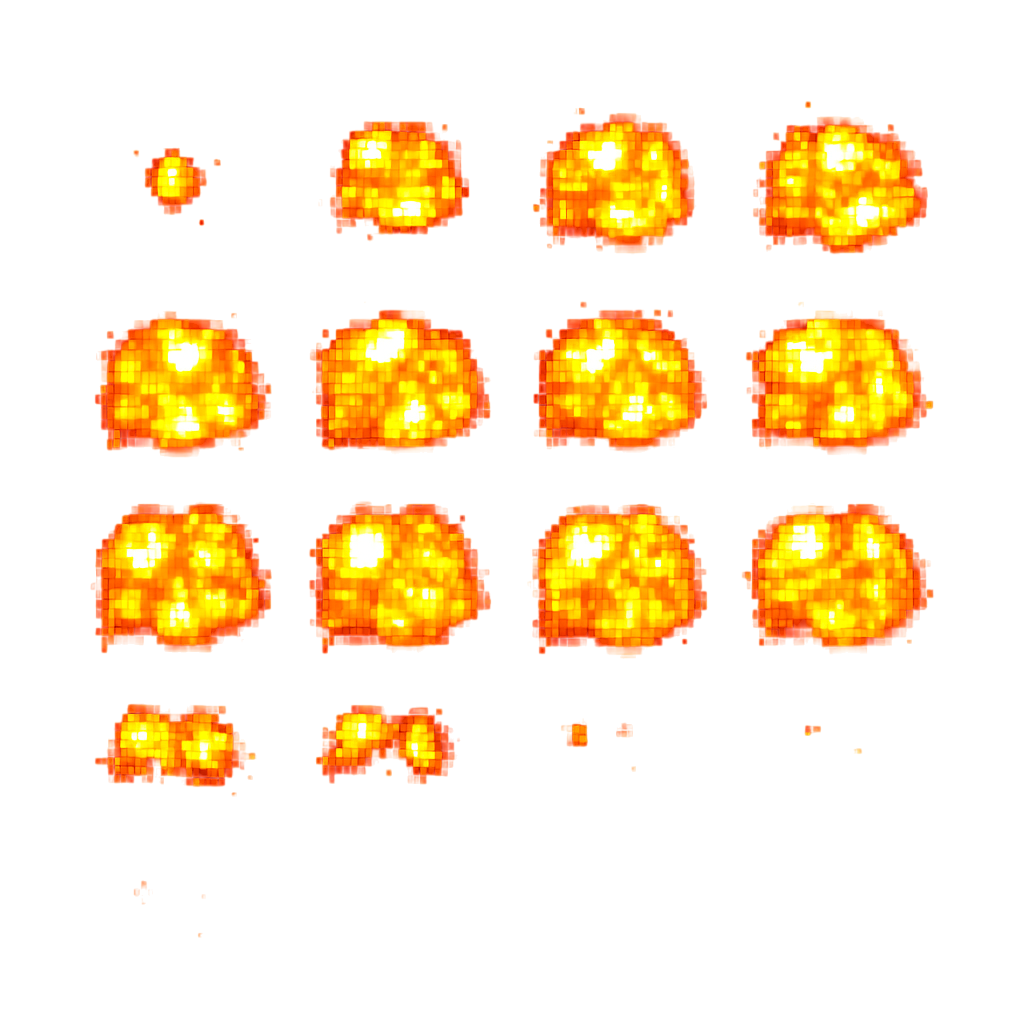
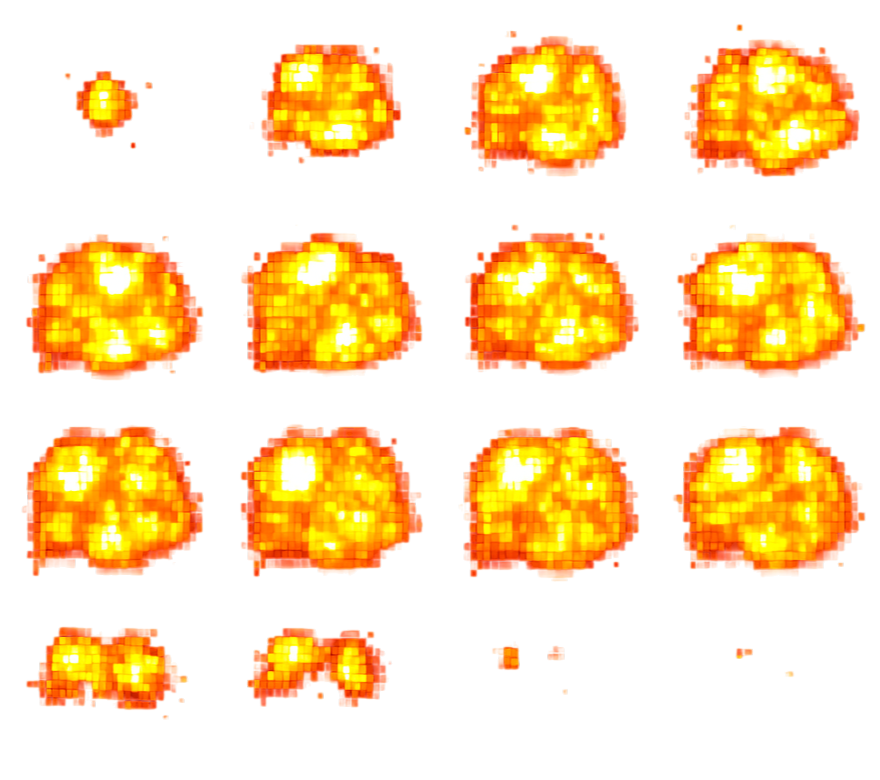
Correcao Animacoes

diff --git a/src/scenes/game.js b/src/scenes/game.js
@@ -24,18 +24,22 @@ export class Game extends Phaser.Scene {
         this.load.audio('hitSound', 'assets/impactSound01.mp3');
         this.load.audio('hitSoundEnemy', 'assets/impactSound02.mp3');
         this.load.image('enemyAttack', 'assets/simpleAttack.png');
-
-        this.load.spritesheet('explosion', 'assets/explosionEnemy.png', {
-            frameWidth: 128,
-            frameHeight: 128
-        });
         this.load.image('bossClone', 'assets/boss.spaceship.png');
         this.load.image('bossProjectile', 'assets/bullet.png');
         this.load.image('orb', 'assets/simpleAttack.png');
         this.load.image('spikeProjectile', 'assets/bullet.png');
         this.load.image('wallProjectile', 'assets/wall-projectile.png');
-
         this.load.image('flash', 'assets/flash_particle.png');
+
+        this.load.spritesheet('bossProjectile', 'assets/specialProjectile.png', {
+            frameWidth: 169,
+            frameHeight: 396 
+        });
+
+        this.load.spritesheet('explosion', 'assets/explosionEnemy.png', {
+            frameWidth: 220,
+            frameHeight: 195
+        });
     }
 
     create(data) {
@@ -85,6 +89,15 @@ export class Game extends Phaser.Scene {
             frameRate: 20,
             hideOnComplete: true
         });
+
+        
+        this.anims.create({
+             key: 'bossProjectileAnim',
+             frames: this.anims.generateFrameNumbers('bossProjectile', { start: 0, end: 7 }), // ajuste os frames!
+             frameRate: 10,
+             repeat: -1
+         });
+        
     }
 
     createEnemiesForLevel(level) {
@@ -167,8 +180,8 @@ export class Game extends Phaser.Scene {
         enemy.disableBody(true, true);
         enemy.canShoot = false;
         const explosion = this.add.sprite(enemy.x, enemy.y, 'explosion')
-            .setScale(0.6)
-            .setOrigin(0.5)
+            .setScale(0.4)
+            .setOrigin(0.5, 0.5)
             .setDepth(10);
         explosion.play('explode');
         explosion.on('animationcomplete', () => explosion.destroy());

diff --git a/src/scenes/boss.js b/src/scenes/boss.js
@@ -360,8 +360,10 @@ export default class Boss extends Phaser.Physics.Arcade.Sprite {
 
     DefaultAttack1() {
         const DefaultAttack1Object = this.scene.physics.add.sprite(this.x, this.y + 10, 'bossProjectile');
-        const velocity = this.DefaultAttack1Velocity; // salva valor local do velocity
+        DefaultAttack1Object.setOrigin(0.5, 0.5);
         DefaultAttack1Object.setScale(0.3);
+        DefaultAttack1Object.play('bossProjectileAnim')
+        const velocity = this.DefaultAttack1Velocity; // salva valor local do velocity
         DefaultAttack1Object.damage = 5;
 
         // Inicialmente parado
@@ -433,7 +435,9 @@ export default class Boss extends Phaser.Physics.Arcade.Sprite {
                 const x = Phaser.Math.Between(0, screenWidth);
                 const y = -32;
 
-                const spike = this.scene.physics.add.sprite(x, y, 'spikeProjectile');
+                const spike = this.scene.physics.add.sprite(x, y, 'bossProjectile');
+                spike.play('bossProjectileAnim');
+                
                 spike.setVelocityY(specialAttack1Velocity);
                 spike.body.setAllowGravity(false);
                 spike.setScale(0.2);
